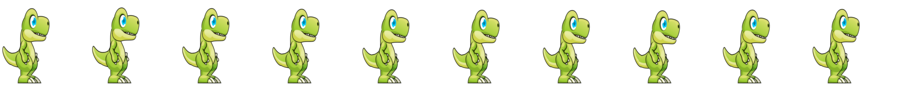
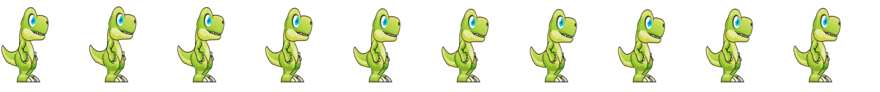
Temple Run Version

diff --git a/GameScene.js b/GameScene.js
@@ -12,8 +12,8 @@ class GameScene extends Phaser.Scene {
 		this.load.audio('reach', 'assets/reach.m4a');
 		
 		this.load.image('ground', 'assets/ground.png');
-		this.load.image('dino-idle', 'assets/dino-idle.png');
-		this.load.image('dino-hurt', 'assets/dino-hurt.png');
+		this.load.image('templerun-idle', 'assets/templerun-idle.png');
+		this.load.image('templerun-hurt', 'assets/templerun-hurt.png');
 		this.load.image('restart', 'assets/restart.png');
 		this.load.image('game-over', 'assets/game-over.png');
 		this.load.image('cloud', 'assets/cloud.png');
@@ -26,12 +26,12 @@ class GameScene extends Phaser.Scene {
 			frameWidth: 20, frameHeight: 40
 		});
 		
-		this.load.spritesheet('dino', 'assets/dino_run.png', {
+		this.load.spritesheet('templerun_run', 'assets/templerun_run.png', {
 			frameWidth: 88,
 			frameHeight: 94
 		});
 		
-		this.load.spritesheet('dino-down', 'assets/dino-down.png', {
+		this.load.spritesheet('templerun_slide', 'assets/templerun_slide.png', {
 			frameWidth: 88,
 			frameHeight: 94
 		});
@@ -62,7 +62,7 @@ class GameScene extends Phaser.Scene {
 		this.hitSound = this.sound.add('hit', {volume : 0.2});
 		this.reachSound = this.sound.add('reach', {volume : 0.2});
 		this.ground = this.add.tileSprite(0, height, 88, 26, 'ground').setOrigin(0, 1);
-		this.dino = this.physics.add.sprite(0, height, 'dino-idle').setCollideWorldBounds(true).setGravityY(5000).setOrigin(0, 1).setBodySize(44, 92).setDepth(1);
+		this.dino = this.physics.add.sprite(0, height, 'templerun-idle').setCollideWorldBounds(true).setGravityY(5000).setOrigin(0, 1).setBodySize(44, 92).setDepth(1);
 		//Hidden object used to start game when space is pressed.
 		this.startTrigger = this.physics.add.sprite(0, 10).setOrigin(0, 1).setImmovable();
 		this.scoreText = this.add.text(width, 0, '00000', {fill : '#535353', font : '900 35px Courier', resolution : 5}).setOrigin(1, 0).setAlpha(0);
@@ -95,7 +95,7 @@ class GameScene extends Phaser.Scene {
 			this.physics.pause();
 			this.isGameRunning = false;
 			this.anims.pauseAll();
-			this.dino.setTexture('dino-hurt');
+			this.dino.setTexture('templerun-hurt');
 			this.respawnTime = 0;
 			this.gameSpeed = 10;
 			this.gameOverScreen.setAlpha(1);
@@ -132,23 +132,24 @@ class GameScene extends Phaser.Scene {
 				this.dino.body.height = 92;
 				this.dino.body.offset.y = 0;
 				this.duckingTimer = 0;
+				this.isDucking = false;
 				this.jumpSound.play();
 				this.dino.setVelocityY(-1600);
-				this.dino.setTexture('dino', 0);
+				this.dino.setTexture('templerun-idle', 0);
                 break;
 			}
 		});
 	}
 	initAnims(){
 		this.anims.create({
-			key: 'dino-run',
-			frames: this.anims.generateFrameNumbers('dino', {start: 0, end: 7}),
+			key: 'templerun_run',
+			frames: this.anims.generateFrameNumbers('templerun_run', {start: 0, end: 9}),
 			frameRate: 10,
 			repeat: -1
 		});
 		this.anims.create({
-			key: 'dino-down-anim',
-			frames: this.anims.generateFrameNumbers('dino-down', {start: 0, end: 1}),
+			key: 'templerun-slide-anim',
+			frames: this.anims.generateFrameNumbers('templerun_slide', {start: 0, end: 9}),
 			frameRate: 10,
 			repeat: -1
 		});
@@ -192,7 +193,7 @@ class GameScene extends Phaser.Scene {
 				callbackScope: this,
 				callback: () => {
 					this.dino.setVelocityX(80);
-					this.dino.play('dino-run', 1);
+					this.dino.play('templerun_run', 1);
 					if(this.ground.width < width){
 						this.ground.width += 17 * 2;
 					}
@@ -279,16 +280,16 @@ class GameScene extends Phaser.Scene {
 		});
 		if (this.dino.body.deltaAbsY() > 0) {
 			this.dino.anims.stop();
-			this.dino.setTexture('dino', 0);
+			this.dino.setTexture('templerun-idle', 0);
 		} 
 		else {
 			if(this.dino.body.height <= 58){
-				this.dino.play('dino-down-anim', true)
+				this.dino.play('templerun-slide-anim', true)
 			}
 			else{
-				this.dino.play('dino-run', true);
+				this.dino.play('templerun_run', true);
 			}
 		}
 	}
 }
-export default GameScene;			
+export default GameScene;
